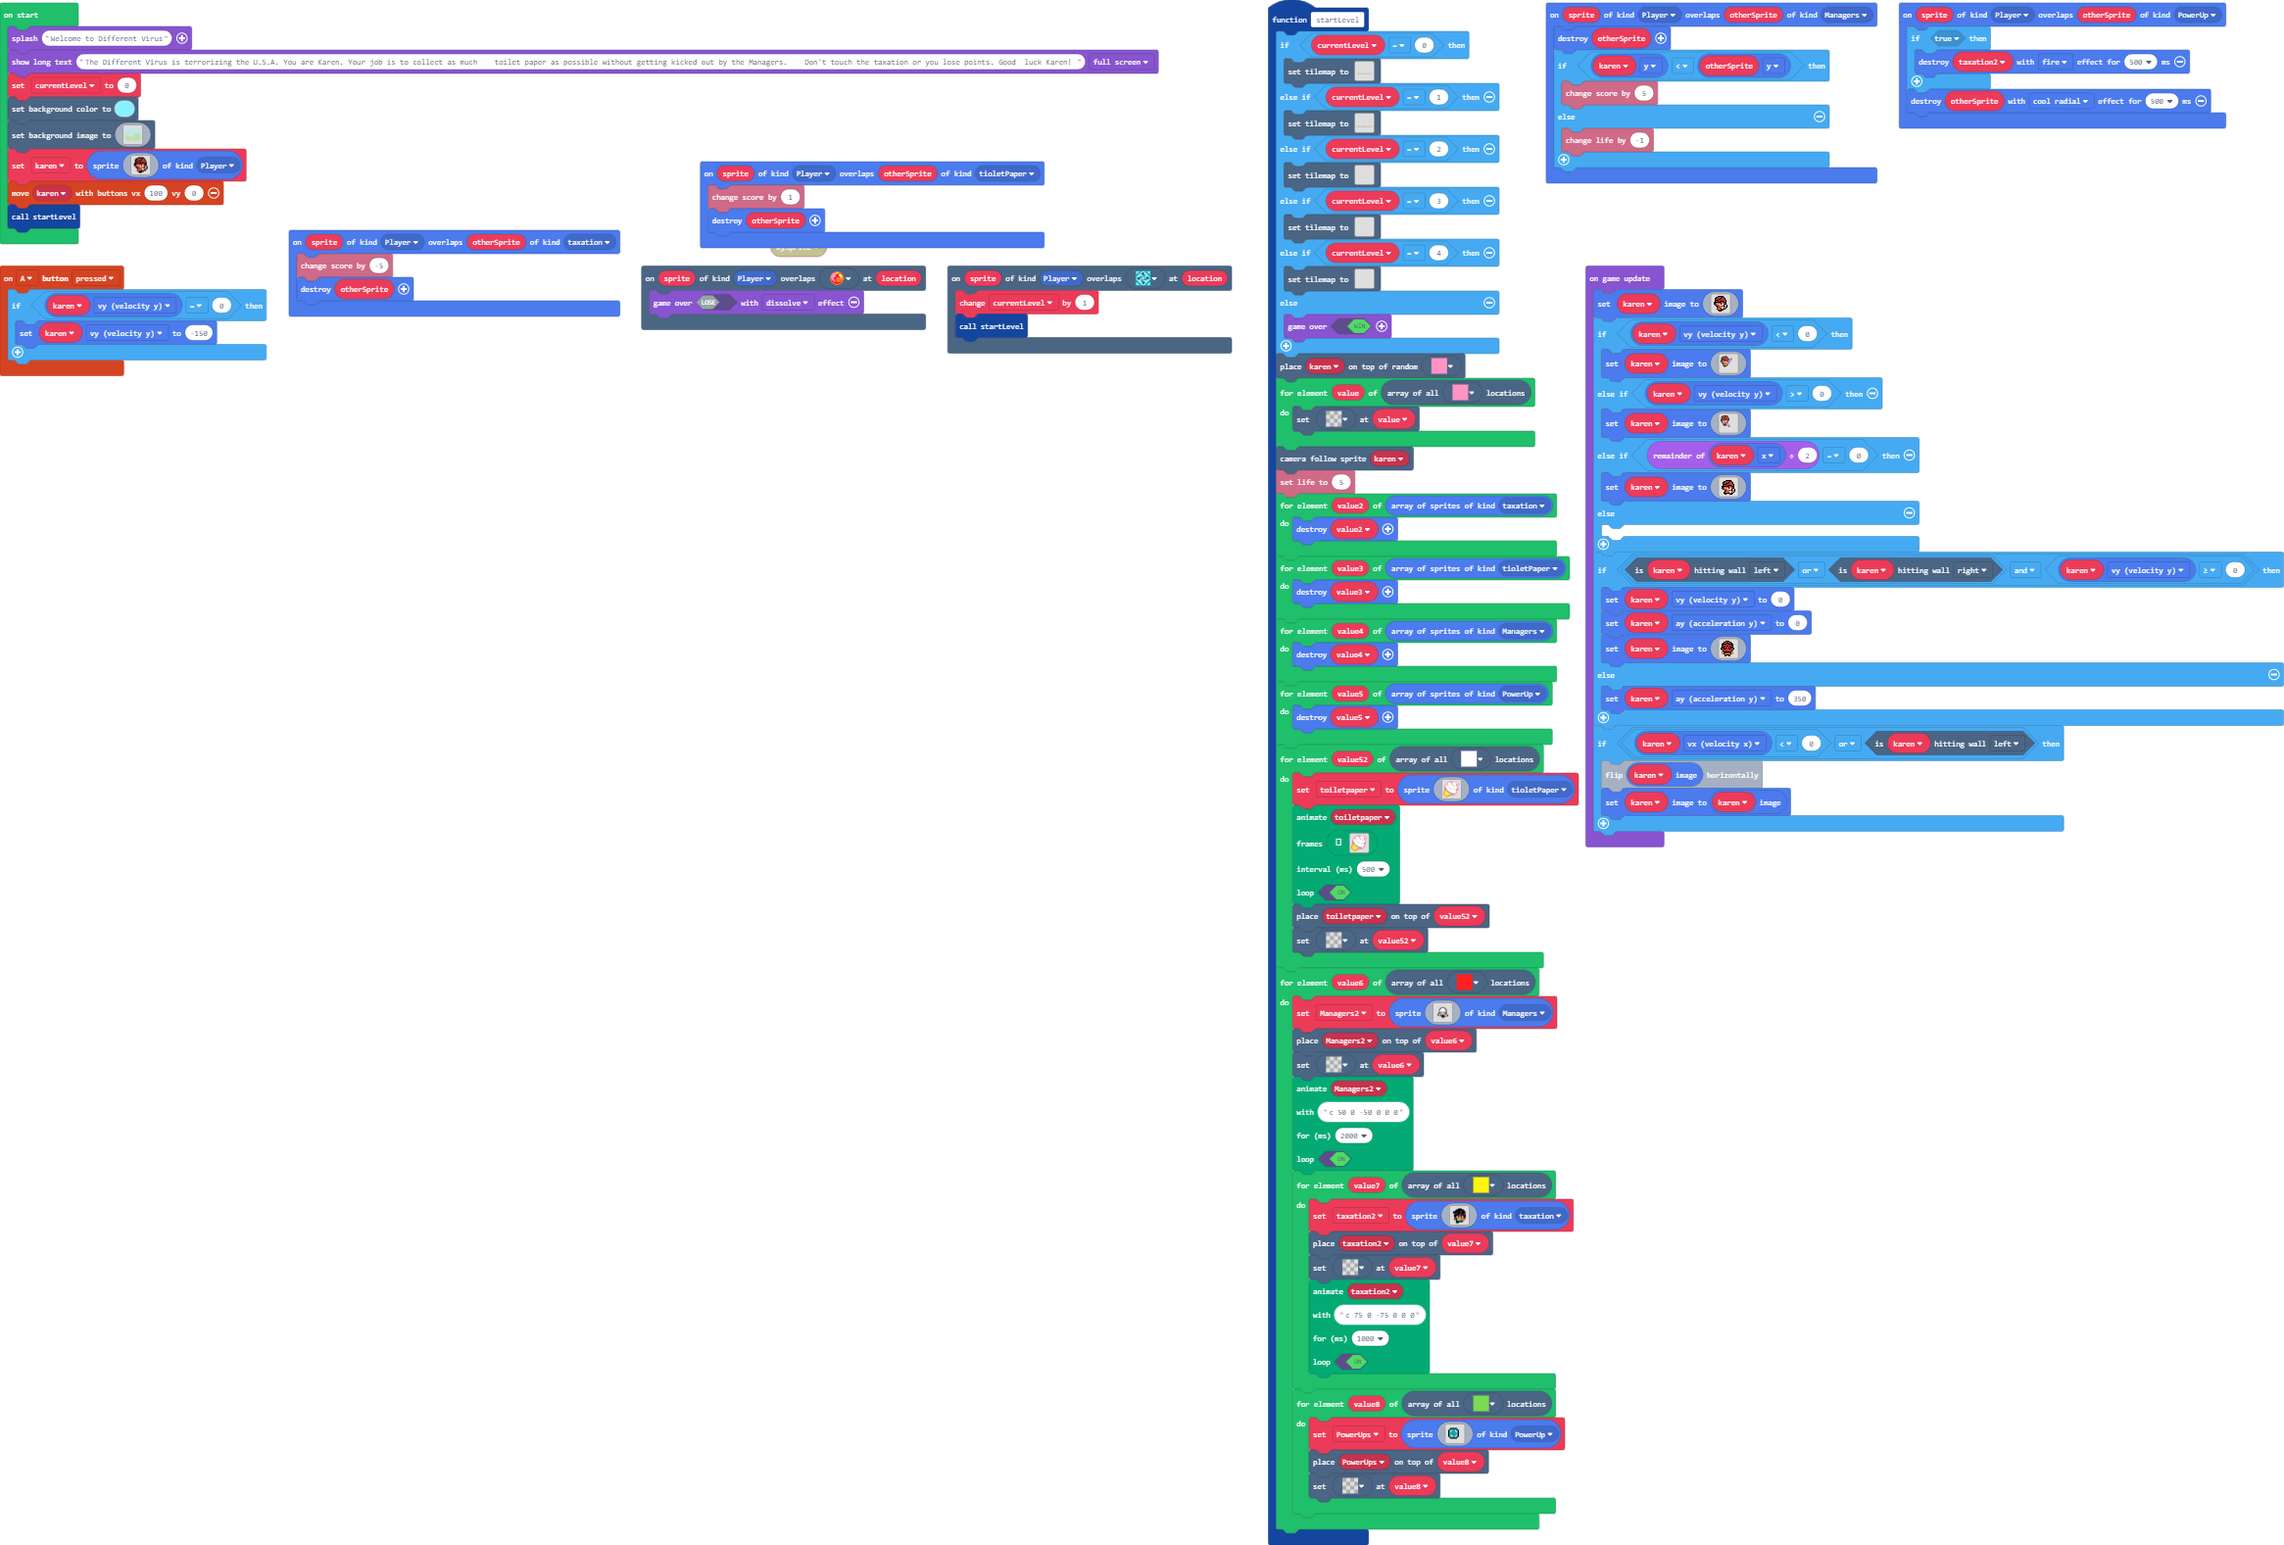
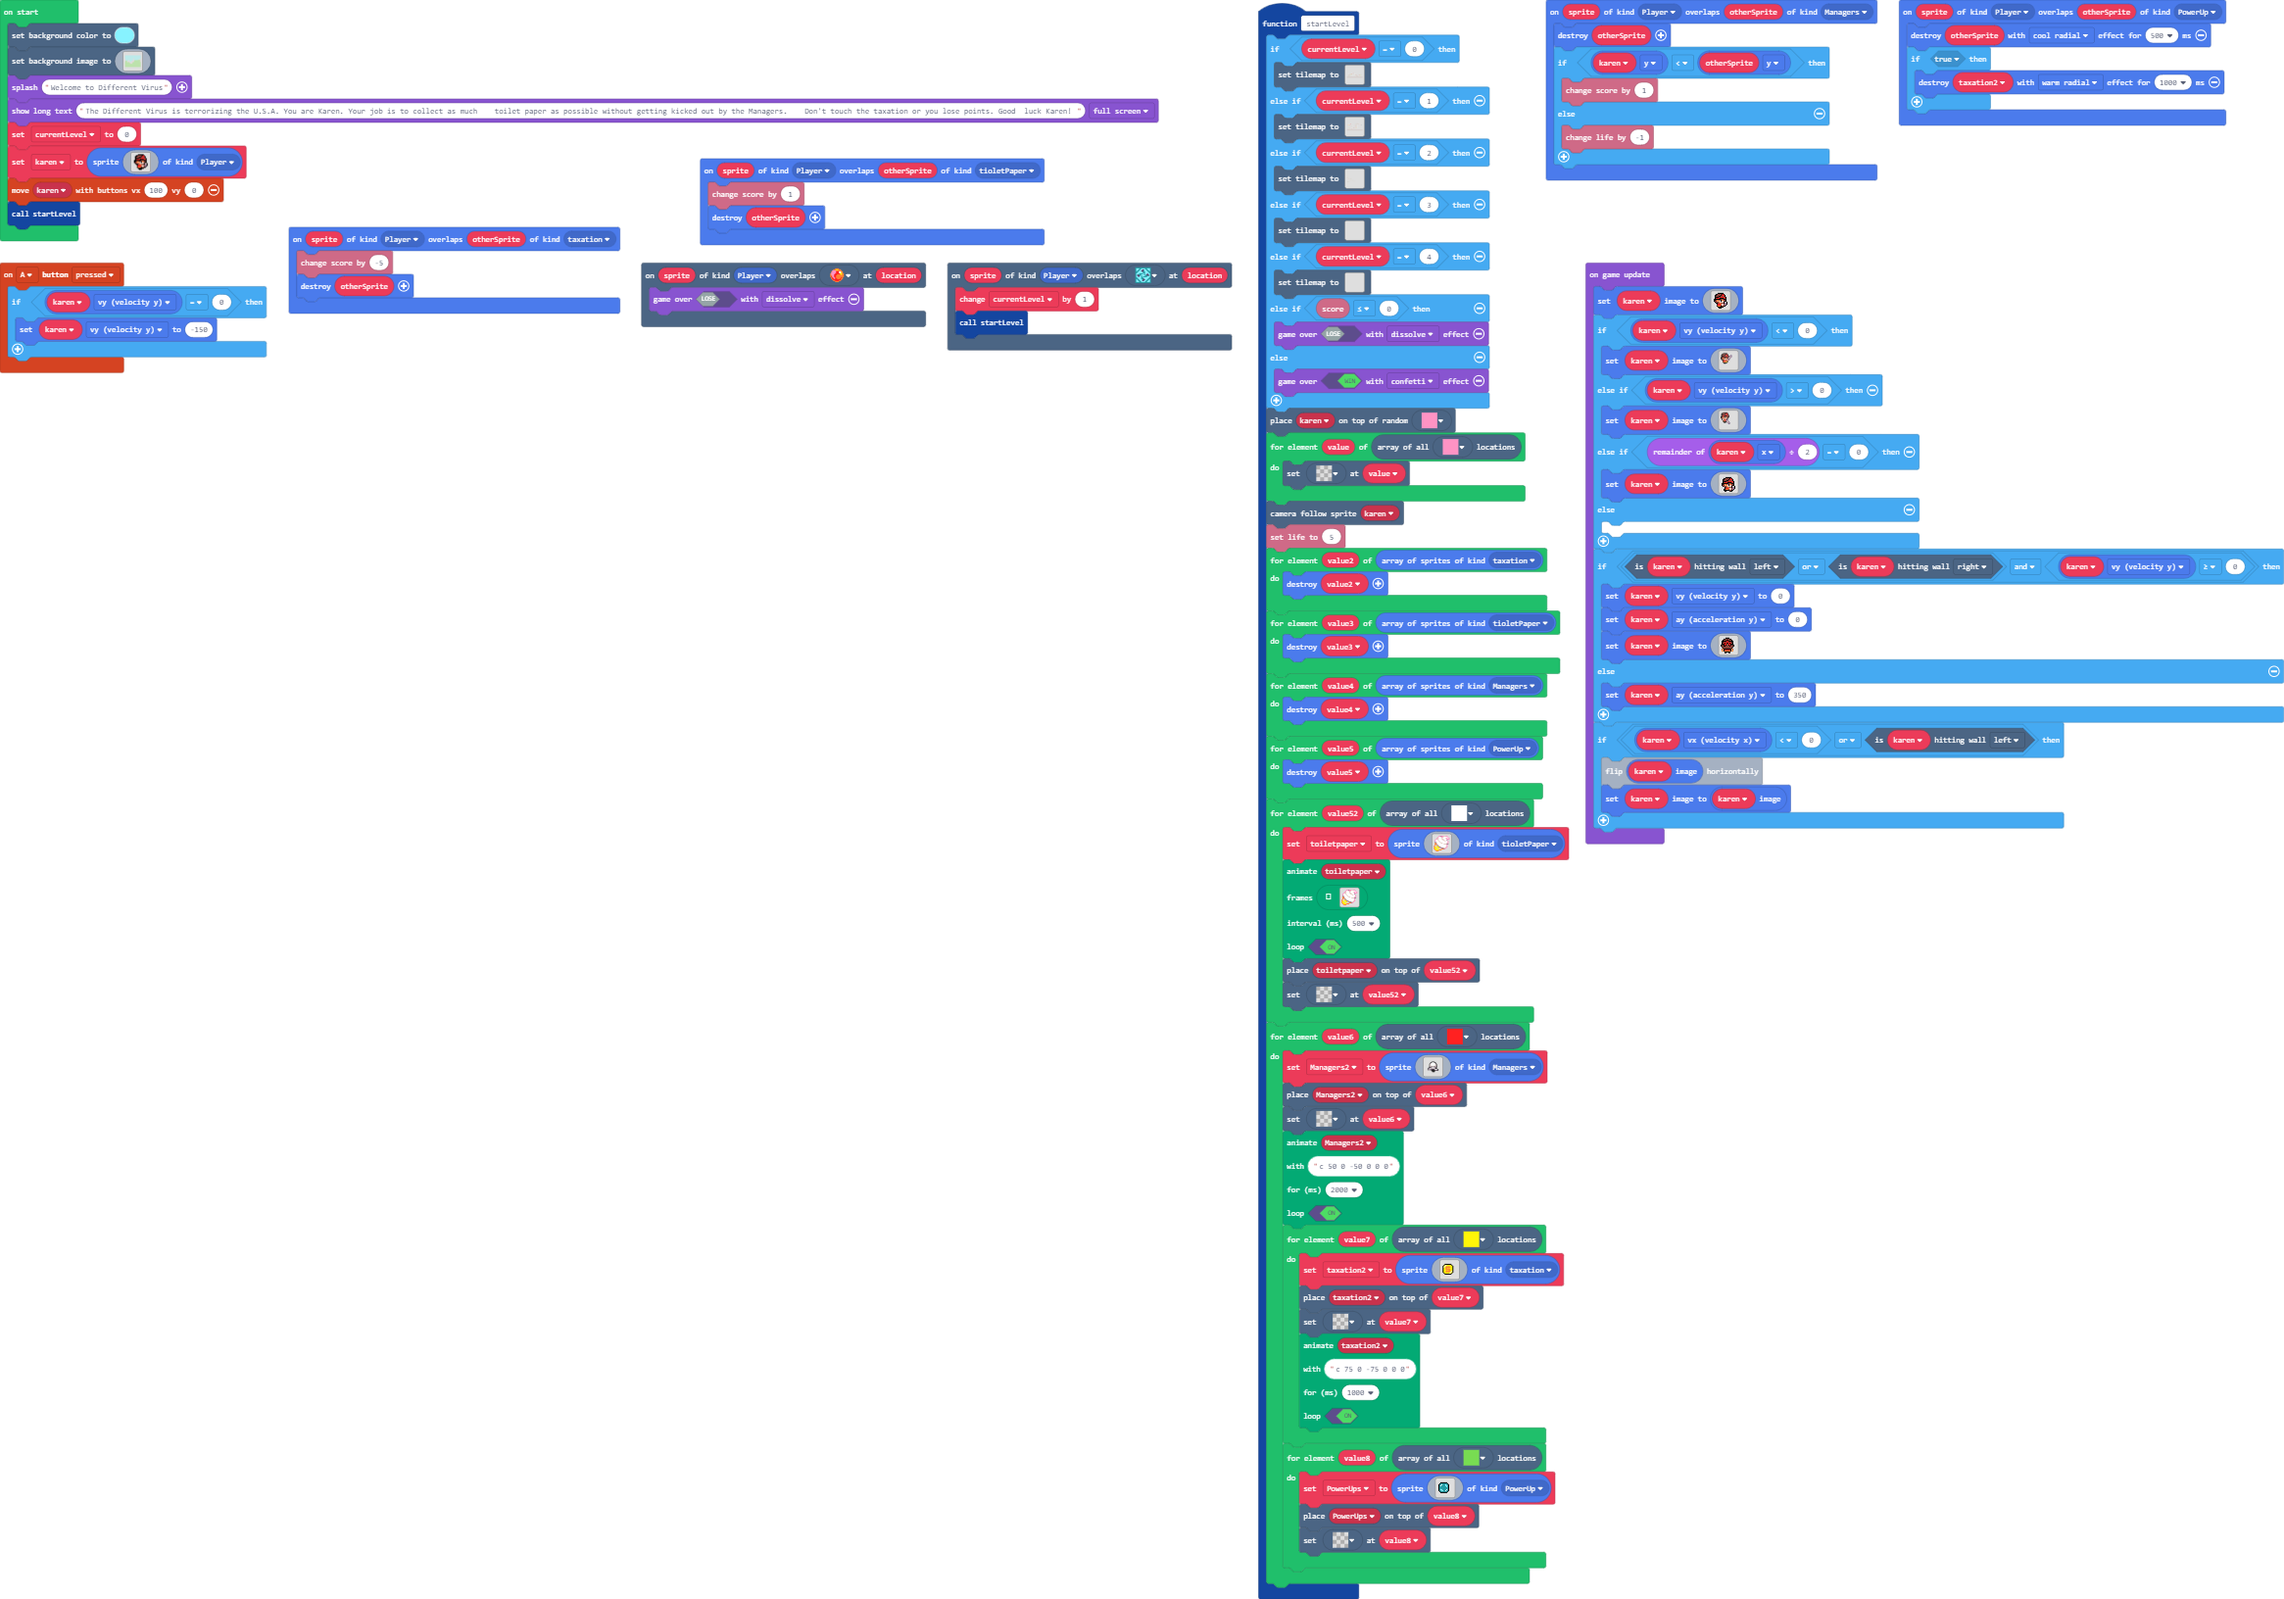
Update main.blocks, main.ts

Changed region(s): [[0.0, 0.0, 1.0, 1.0]]

diff --git a/main.ts b/main.ts
@@ -127,16 +127,16 @@ sprites.onOverlap(SpriteKind.Player, SpriteKind.tioletPaper, function (sprite, o
 sprites.onOverlap(SpriteKind.Player, SpriteKind.Managers, function (sprite, otherSprite) {
     otherSprite.destroy()
     if (karen.y < otherSprite.y) {
-        info.changeScoreBy(5)
+        info.changeScoreBy(1)
     } else {
         info.changeLifeBy(-1)
     }
 })
 sprites.onOverlap(SpriteKind.Player, SpriteKind.PowerUp, function (sprite, otherSprite) {
-    if (true) {
-        taxation2.destroy(effects.fire, 500)
-    }
     otherSprite.destroy(effects.coolRadial, 500)
+    if (true) {
+        taxation2.destroy(effects.warmRadial, 1000)
+    }
 })
 controller.A.onEvent(ControllerButtonEvent.Pressed, function () {
     if (karen.vy == 0) {
@@ -157,7 +157,7 @@ scene.onOverlapTile(SpriteKind.Player, sprites.dungeon.collectibleInsignia, func
 function startLevel () {
     if (currentLevel == 0) {
         tiles.setTilemap(tiles.createTilemap(
-            hex`3200140000000000000000000000000000000000000000000000000000000000000000000000000000000000000000000000000000000000000000000000000000000000000000000000000000000000000000000000000000000000000000000000000000000000000000000000000000000000000000000000000000000000000000000000000000000000000000000000000000000000000000000000000000000000000000000000000000000000000000000000000000000000000000000000000000000000000000000000000000000000000000000000000000000000000000000000000000000000000000000000000000000000000000000000000000000000000000000000000000000200000000000000000000000000000000000000000000000000000000000000000000000000000000000000000000000000020000000300000200000000000000000000000000000000000000000000000000000000000000000000000000000000000002000505050505050202000000000000000000000000000000000000000000000000000000000200000000000000000403000200000000000000020200000000000000000000000000000000000000000000000000000000020000000000000505050505050000000000000002020000000000000000000000000000000000000000000000000000000002000003040000000000000000000000000000000202000000000000000000000000000000000200000600000000000000000505050505050000000000000200000000000000020200000003000000000000000000000000020005050000000000000000000000000000000000040008020000000000000005050505050500000000000000000003000002000000000000000000000001000000000200050505050505000000000000000000000000000000000000020005050505050500000000000000000000000000000000020000000000000000000000000000000000000000000003000002000000000000000000000000000000000000050505050505000000000000000000000000000000000000000000050505050500000000000000000000000000000000000000000000000000000000000000000000000000000000000000000000000000000000000000000000000000000000000000000000000000000000000000000000000000000000000000000000000000000000000000000000000000000000000000000000000000000000000000000000000000000000000000000000000000000000000000000000000000000000000000000707070707070707070707070707070707070707070707070707070707070707070707070707070707070707070707070707`,
+            hex`3200140000000000000000000000000000000000000000000000000000000000000000000000000000000000000000000000000000000000000000000000000000000000000000000000000000000000000000000000000000000000000000000000000000000000000000000000000000000000000000000000000000000000000000000000000000000000000000000000000000000000000000000000000000000000000000000000000000000000000000000000000000000000000000000000000000000000000000000000000000000000000000000000000000000000000000000000000000000000000000000000000000000000000000000000000000000000000000000000000000000200000000000000000000000000000000000000000000000000000000000000000000000000000000000000000000000000000000000300000200000000000000000000000000000000000000000000000000000000000002000000000000000000000002000505050505050202000000000000000000000000000000000000000000000000000000000200000000000000000403000200000000000000020000000000000000000000000000000000000000000000000000000000000000000000000505050505050000000000000000000000000000000000000000000000000000000000000000000000000002000003000000000000000000000002000000000002000000000000000000000008000000000200000600000000000000000505050505050000000000000200000000000000020200000003000000000000000000000000000005050000000000000000000000000000000000040000020000020000000005050505050500000000000000000003000004000000000000000000000001000000000200050505050505000000000000000000000000000000000000020005050505050500000000000000000000000000000000020000000000000000000200000000000000000000000003000002000000000000000000000000000000000000050505050505000000000000000000000000000000000000000000050505050500000000000000000000000000000000000000000000000000000000000000000000000000000000000000000000000000000000000000000000000000000000000000000000000000000000000000000000000000000000000000000000000000000000000000000000000000000000000000000000000000000000000000000000000000000000000000000000000000000000000000000000000000000000000000000707070707070707070707070707070707070707070707070707070707070707070707070707070707070707070707070707`,
             img`
 . . . . . . . . . . . . . . . . . . . . . . . . . . . . . . . . . . . . . . . . . . . . . . . . . . 
 . . . . . . . . . . . . . . . . . . . . . . . . . . . . . . . . . . . . . . . . . . . . . . . . . . 
@@ -185,7 +185,7 @@ function startLevel () {
         ))
     } else if (currentLevel == 1) {
         tiles.setTilemap(tiles.createTilemap(
[2 lines of base64/hex data omitted]
             img`
 . . . . . . . . . . . . . . . . . . . . . . . . . . . . . . . . . . . . . . . . . . . . . . . . . . 
 . . . . . . . . . . . . . . . . . . . . . . . . . . . . . . . . . . . . . . . . . . . . . . . . . . 
@@ -297,8 +297,10 @@ function startLevel () {
             [myTiles.tile0,myTiles.tile1,myTiles.tile2,myTiles.tile3,myTiles.tile4,myTiles.tile5],
             TileScale.Sixteen
         ))
+    } else if (info.score() <= 0) {
+        game.over(false, effects.dissolve)
     } else {
-        game.over(true)
+        game.over(true, effects.confetti)
     }
     tiles.placeOnRandomTile(karen, myTiles.tile1)
     for (let value of tiles.getTilesByType(myTiles.tile1)) {
@@ -400,22 +402,22 @@ function startLevel () {
         )
         for (let value7 of tiles.getTilesByType(myTiles.tile4)) {
             taxation2 = sprites.create(img`
-. . . . . . . . . . . . . 
-. . . . . f f f f . . . . 
-. . . f f f f f f f f . . 
-. . f f f f f f c f f f . 
-f f f f f f f c c f f f c 
-f f f f c f f f f f f f c 
-. c c c f f f e e f f c c 
-. f f f f f e e f f c c f 
-. f f f b f e e f b f f f 
-. f f 4 1 f 4 4 f 1 4 f f 
-. . f e 4 4 4 4 4 e e f e 
-. f e f b 7 7 7 e 4 4 4 e 
-. e 4 f 7 7 7 7 e 4 4 e . 
-. . . f 6 6 6 6 6 e e . . 
-. . . f f f f f f f . . . 
-. . . f f f . . . . . . . 
+. . . . . . . . . . . . . . . . 
+. . . . . . . . . . . . . . . . 
+. . . f f f f f f f . . . . . . 
+. . f 5 1 5 5 5 5 5 f . . . . . 
+. f 5 1 5 4 5 4 5 5 5 f . . . . 
+. f 1 5 4 4 4 4 4 5 5 f . . . . 
+. f 5 5 4 4 5 4 5 5 5 f . . . . 
+. f 5 5 4 4 4 4 4 5 5 f . . . . 
+. f 5 5 5 4 5 4 4 5 5 f . . . . 
+. f 5 5 4 4 4 4 4 5 1 f . . . . 
+. f 5 5 5 4 5 4 5 1 5 f . . . . 
+. . f 5 5 5 5 5 1 5 f . . . . . 
+. . . f f f f f f f . . . . . . 
+. . . . . . . . . . . . . . . . 
+. . . . . . . . . . . . . . . . 
+. . . . . . . . . . . . . . . . 
 `, SpriteKind.taxation)
             tiles.placeOnTile(taxation2, value7)
             tiles.setTileAt(value7, myTiles.tile0)
@@ -456,9 +458,6 @@ let toiletpaper: Sprite = null
 let taxation2: Sprite = null
 let karen: Sprite = null
 let currentLevel = 0
-game.splash("Welcome to Different Virus")
-game.showLongText("The Different Virus is terrorizing the U.S.A. You are Karen. Your job is to collect as much    toilet paper as possible without getting kicked out by the Managers.    Don't touch the taxation or you lose points. Good  luck Karen! ", DialogLayout.Full)
-currentLevel = 0
 scene.setBackgroundColor(9)
 scene.setBackgroundImage(img`
 9 9 9 9 9 9 9 9 9 9 9 9 9 9 9 9 9 9 9 9 9 9 9 9 9 9 9 9 9 9 9 9 9 9 9 9 9 9 9 9 9 9 9 9 9 9 9 9 9 9 9 9 9 9 9 9 9 9 9 9 9 9 9 9 9 9 9 9 9 9 9 9 9 9 9 9 9 9 9 9 9 9 9 9 9 9 9 9 9 9 9 9 9 9 9 9 9 9 9 9 9 9 9 9 9 9 9 9 9 9 9 9 9 9 9 9 9 9 9 9 9 9 9 9 9 9 9 9 9 9 9 9 9 9 9 9 9 9 9 9 9 9 9 9 9 9 9 9 9 9 9 9 9 9 9 9 9 9 9 9 
@@ -582,6 +581,9 @@ d 7 7 7 7 7 7 7 7 7 7 7 7 7 7 7 7 7 7 7 7 d d d d d d d d d d d d 7 7 7 7 7 d d 
 7 7 7 7 7 7 7 7 7 7 7 7 7 7 7 7 7 7 7 7 7 7 7 7 7 7 7 7 7 7 7 7 7 7 7 7 7 7 7 7 7 7 7 7 7 7 7 7 7 7 7 7 7 7 7 7 7 7 7 7 7 7 7 7 7 7 7 7 7 7 7 7 7 7 7 7 7 7 7 7 7 7 7 7 7 7 7 7 7 7 7 7 7 7 7 7 7 7 7 7 7 7 7 7 7 7 7 7 7 7 7 7 7 7 7 7 7 7 7 7 7 7 7 7 7 7 7 7 7 7 7 7 7 7 7 7 7 7 7 7 7 7 7 7 7 7 7 7 7 7 7 7 7 7 7 7 7 7 7 7 
 7 7 7 7 7 7 7 7 7 7 7 7 7 7 7 7 7 7 7 7 7 7 7 7 7 7 7 7 7 7 7 7 7 7 7 7 7 7 7 7 7 7 7 7 7 7 7 7 7 7 7 7 7 7 7 7 7 7 7 7 7 7 7 7 7 7 7 7 7 7 7 7 7 7 7 7 7 7 7 7 7 7 7 7 7 7 7 7 7 7 7 7 7 7 7 7 7 7 7 7 7 7 7 7 7 7 7 7 7 7 7 7 7 7 7 7 7 7 7 7 7 7 7 7 7 7 7 7 7 7 7 7 7 7 7 7 7 7 7 7 7 7 7 7 7 7 7 7 7 7 7 7 7 7 7 7 7 7 7 7 
 `)
+game.splash("Welcome to Different Virus")
+game.showLongText("The Different Virus is terrorizing the U.S.A. You are Karen. Your job is to collect as much    toilet paper as possible without getting kicked out by the Managers.    Don't touch the taxation or you lose points. Good  luck Karen! ", DialogLayout.Full)
+currentLevel = 0
 karen = sprites.create(img`
 . . . . . f f f f f f . . . . . 
 . . . f f e e e e f 2 f . . . . 
